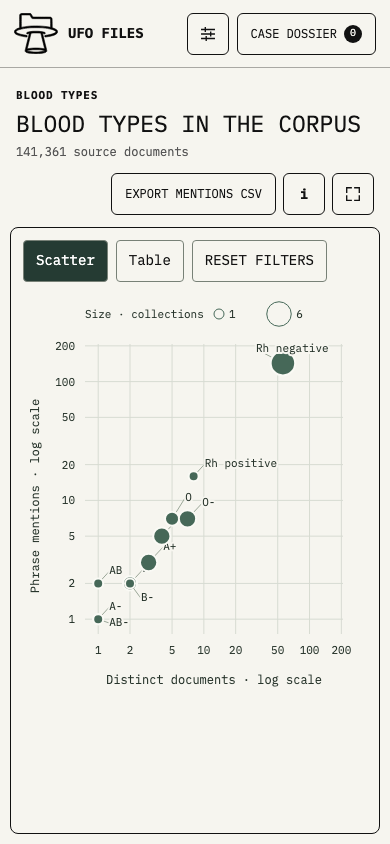
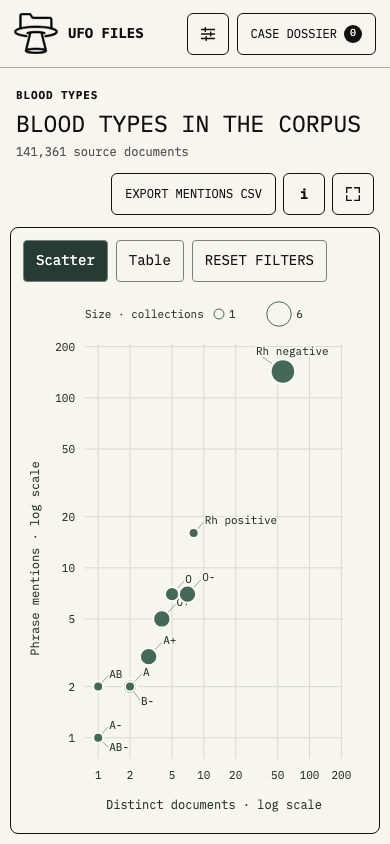
Fill available viewport height with blood type scatter chart

diff --git a/app.js b/app.js
@@ -4360,7 +4360,11 @@ function bloodOverviewHTML(observations, config) {
 
 function drawBloodScatter(svg, observations, config) {
   const groups = bloodMentionGroups(observations);
-  const width = Math.max(280, svg.parentElement.clientWidth), height = Math.min(560, Math.max(400, width * .55));
+  const viewport = $("#tableView");
+  const bottomPadding = parseFloat(window.getComputedStyle(svg.closest(".blood-view")).paddingBottom) || 0;
+  const chartTop = svg.getBoundingClientRect().top - viewport.getBoundingClientRect().top + viewport.scrollTop;
+  const width = Math.max(280, svg.parentElement.clientWidth);
+  const height = Math.max(240, viewport.clientHeight - chartTop - bottomPadding);
   const margin = { left: 62, right: 24, top: 48, bottom: 62 };
   const maximum = Math.max(2, ...groups.map(group => group.mentions)) * 1.45;
   const logMin = Math.log10(.75), logMax = Math.log10(maximum);
